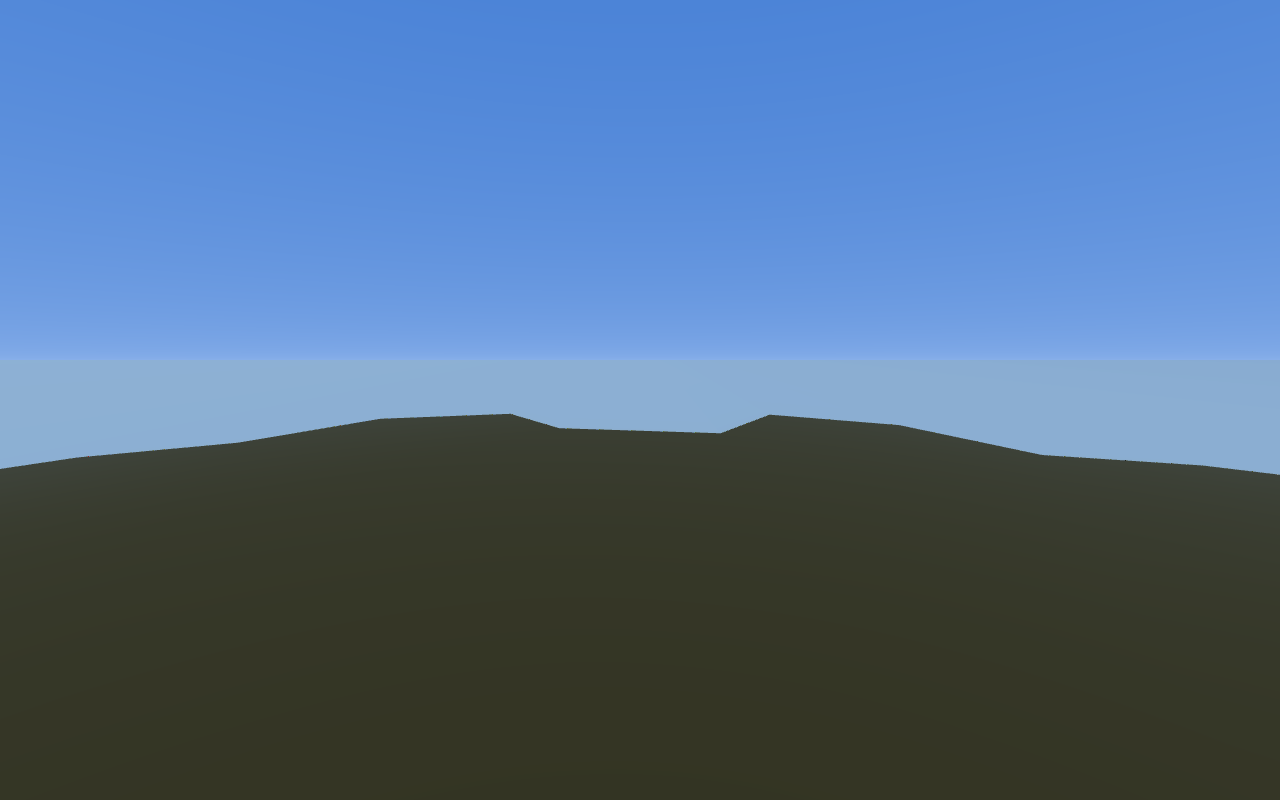
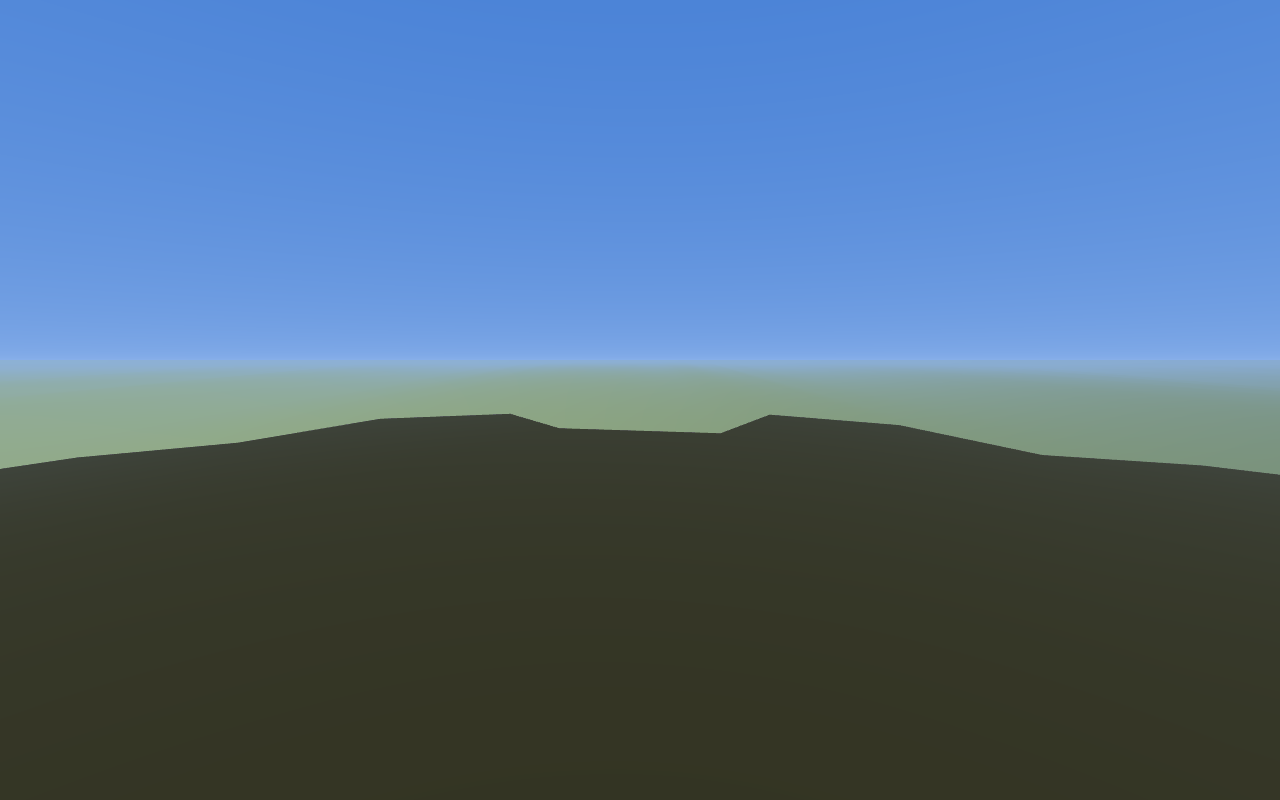
README and renders for fragment-side fan shading

Changed region(s): [[0.0, 0.4375, 1.0, 0.5938]]

diff --git a/README.md b/README.md
@@ -197,10 +197,15 @@ out, and there is no giant finite quad to clip or z-fight.
   everywhere, a constant medium dark green/brown
   (TERRAIN_COLOUR): with one colour there is no colour
   blending left to get wrong, whatever the interpolation
-  does, so the fan is back to standard perspective-correct
-  interpolation and one lighting statistic (the diffuse
-  response integrated over a fan of normals tilted from
-  straight up to 45° toward the viewer). The elevation colour
+  does. The fan's lighting and haze are evaluated per
+  fragment, in the fragment shader, from the world position
+  reconstructed out of a homogeneous varying -- the plane
+  shaders' architecture: position interpolates exactly, and
+  nothing nonlinear (lighting statistic, distance haze) is
+  ever baked into a vertex colour and interpolated across
+  the finite/infinite divide. The lighting is one statistic
+  (the diffuse response integrated over a fan of normals
+  tilted from straight up to 45° toward the viewer). The elevation colour
   stops are parked in terrain.py until the bigger geometry
   is flawless; the sea
   is the transparent partner there, its alpha fading at the
